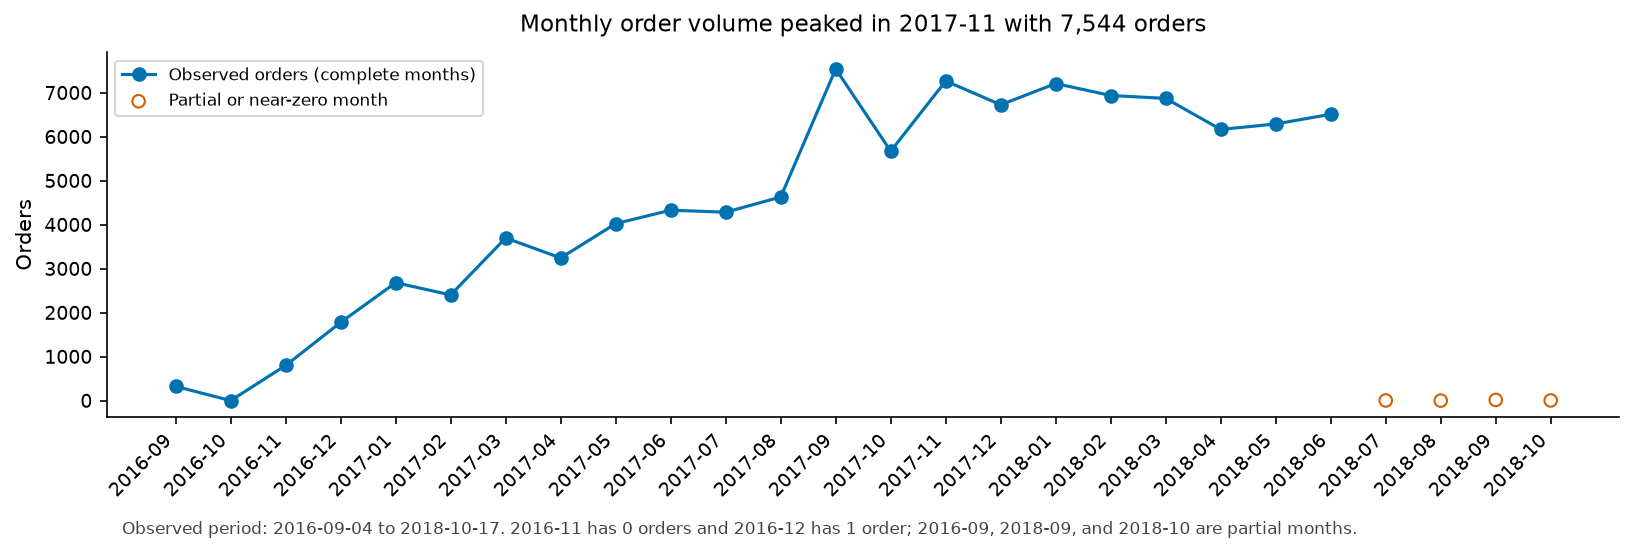
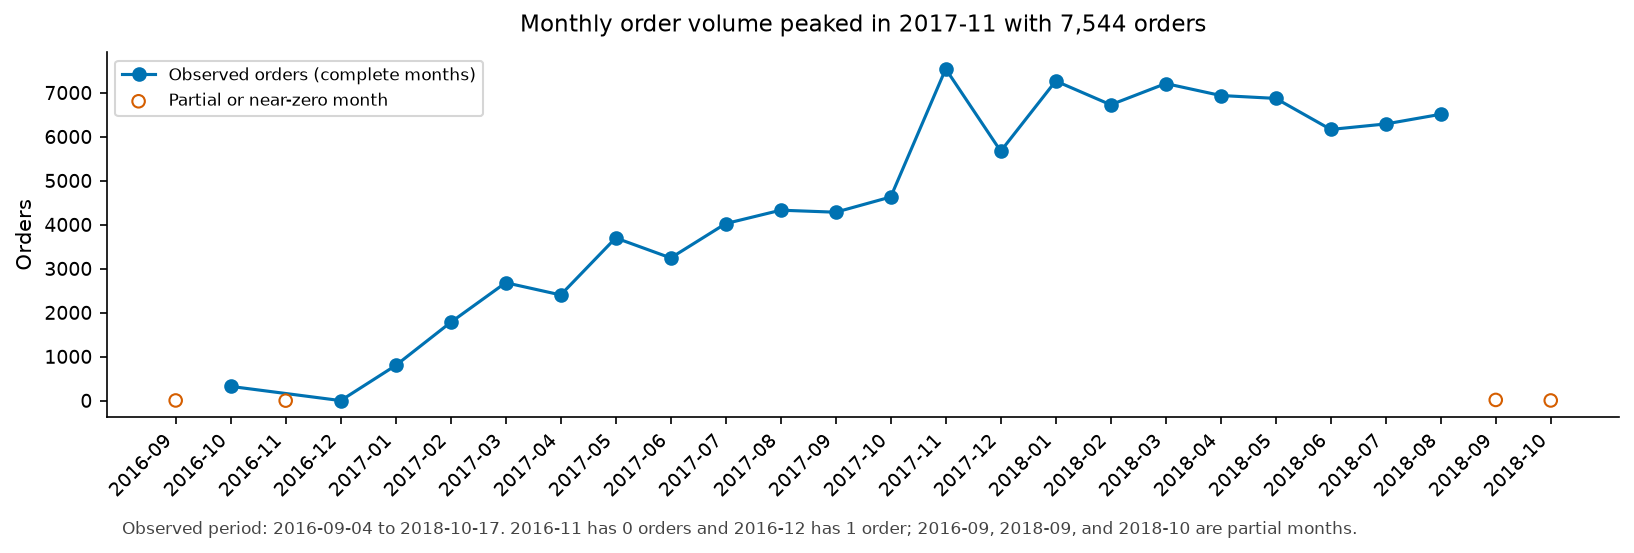
Fix monthly chart x-alignment; add regression test

diff --git a/scripts/export_analysis.py b/scripts/export_analysis.py
@@ -152,27 +152,34 @@ def title_revenue_by_state(geo: pd.DataFrame) -> str:
 def plot_monthly_orders(ax: plt.Axes, monthly: pd.DataFrame) -> None:
     # Complete months carry the real volume; partial and near-zero months are
     # marked separately so they do not read as a real collapse in the series.
-    complete = monthly[(~monthly["is_partial_boundary_month"]) & (monthly["order_count"] > 0)]
-    gap = monthly[(monthly["is_partial_boundary_month"]) | (monthly["order_count"] == 0)]
+    # Positions are spine indices (0..n-1) so markers line up with the ticks.
+    spine = monthly.reset_index(drop=True)
+    positions = spine.index.to_numpy()
+    complete_mask = (~spine["is_partial_boundary_month"]) & (spine["order_count"] > 0)
+    gap_mask = spine["is_partial_boundary_month"] | (spine["order_count"] == 0)
+    complete_pos = positions[complete_mask.to_numpy()]
+    complete_vals = spine.loc[complete_mask, "order_count"]
     ax.plot(
-        complete["month"],
-        complete["order_count"],
+        complete_pos,
+        complete_vals,
         marker="o",
         color=PALETTE["blue"],
         label="Observed orders (complete months)",
     )
-    if not gap.empty:
+    if gap_mask.any():
+        gap_pos = positions[gap_mask.to_numpy()]
+        gap_vals = spine.loc[gap_mask, "order_count"]
         ax.scatter(
-            gap["month"],
-            gap["order_count"],
+            gap_pos,
+            gap_vals,
             marker="o",
             facecolors="none",
             edgecolors=PALETTE["vermillion"],
             zorder=3,
             label="Partial or near-zero month",
         )
-    ax.set_xticks(range(len(monthly["month"])))
-    ax.set_xticklabels(monthly["month"], rotation=45, ha="right")
+    ax.set_xticks(range(len(spine)))
+    ax.set_xticklabels(spine["month"], rotation=45, ha="right")
     ax.set_ylabel("Orders")
     apply_chart_style(ax)
     ax.legend(loc="upper left", fontsize=8)
@@ -217,7 +224,7 @@ def plot_review_by_delivery(ax: plt.Axes, by_bucket: pd.DataFrame) -> None:
 def plot_revenue_by_state(ax: plt.Axes, geo: pd.DataFrame) -> None:
     top = geo.head(15)
     values_m = top["gmv_payments"] / 1e6
-    labels = ["São Paulo (SP)" if s == "SP" else s for s in top["state"]]
+    labels = ["São Paulo\n(SP)" if s == "SP" else s for s in top["state"]]
     bars = ax.bar(labels, values_m, color=PALETTE["blue"])
     # Highlight the leading state; keep the rest neutral.
     if len(bars):

diff --git a/tests/test_chart_helpers.py b/tests/test_chart_helpers.py
@@ -143,3 +143,60 @@ def test_render_revenue_by_state_png(tmp_path):
     fig.savefig(out)
     plt.close(fig)
     assert _is_png(out)
+
+
+def _monthly_alignment_df() -> pd.DataFrame:
+    return pd.DataFrame(
+        {
+            "month": ["2017-01", "2017-02", "2017-03", "2017-04", "2017-05", "2017-06"],
+            "order_count": [100, 0, 200, 300, 250, 150],
+            "gmv_payments": [1000.0, 0.0, 2000.0, 3000.0, 2500.0, 1500.0],
+            "is_partial_boundary_month": [True, False, False, False, False, True],
+        }
+    )
+
+
+def test_monthly_chart_x_alignment():
+    """Regression: plotted x positions must equal spine indices, not a re-indexed subset."""
+    fig, ax = plt.subplots()
+    df = _monthly_alignment_df()
+    plot_monthly_orders(ax, df)
+
+    line = ax.lines[0]
+    xs = [float(v) for v in line.get_xdata()]
+    ys = [float(v) for v in line.get_ydata()]
+    labels = [lbl.get_text() for lbl in ax.get_xticklabels()]
+
+    months = list(df["month"])
+    n = len(months)
+
+    # (a) every plotted x equals that month's index in the spine
+    for x in xs:
+        assert x == int(x), f"non-integer x: {x}"
+        assert 0 <= int(x) < n, f"x out of spine range: {x}"
+
+    # (b) the tick label at each plotted x equals that month's string
+    for x in xs:
+        xi = int(x)
+        assert (
+            labels[xi] == months[xi]
+        ), f"tick label mismatch at x={xi}: {labels[xi]!r} != {months[xi]!r}"
+
+    # (c) the x of the maximum-order point has a tick label equal to the month
+    # named by title_monthly_orders
+    max_i = ys.index(max(ys))
+    max_x = int(xs[max_i])
+    title = title_monthly_orders(df)
+    peak_month = title.split("peaked in ")[1].split(" with ")[0]
+    assert (
+        labels[max_x] == peak_month
+    ), f"peak x tick {labels[max_x]!r} != title month {peak_month!r}"
+
+    # scatter (partial/near-zero months) must also sit at spine positions
+    if ax.collections:
+        offsets = ax.collections[0].get_offsets()
+        for ox, _ in offsets:
+            oxi = int(round(float(ox)))
+            assert 0 <= oxi < n, f"scatter x out of spine range: {ox}"
+
+    plt.close(fig)
